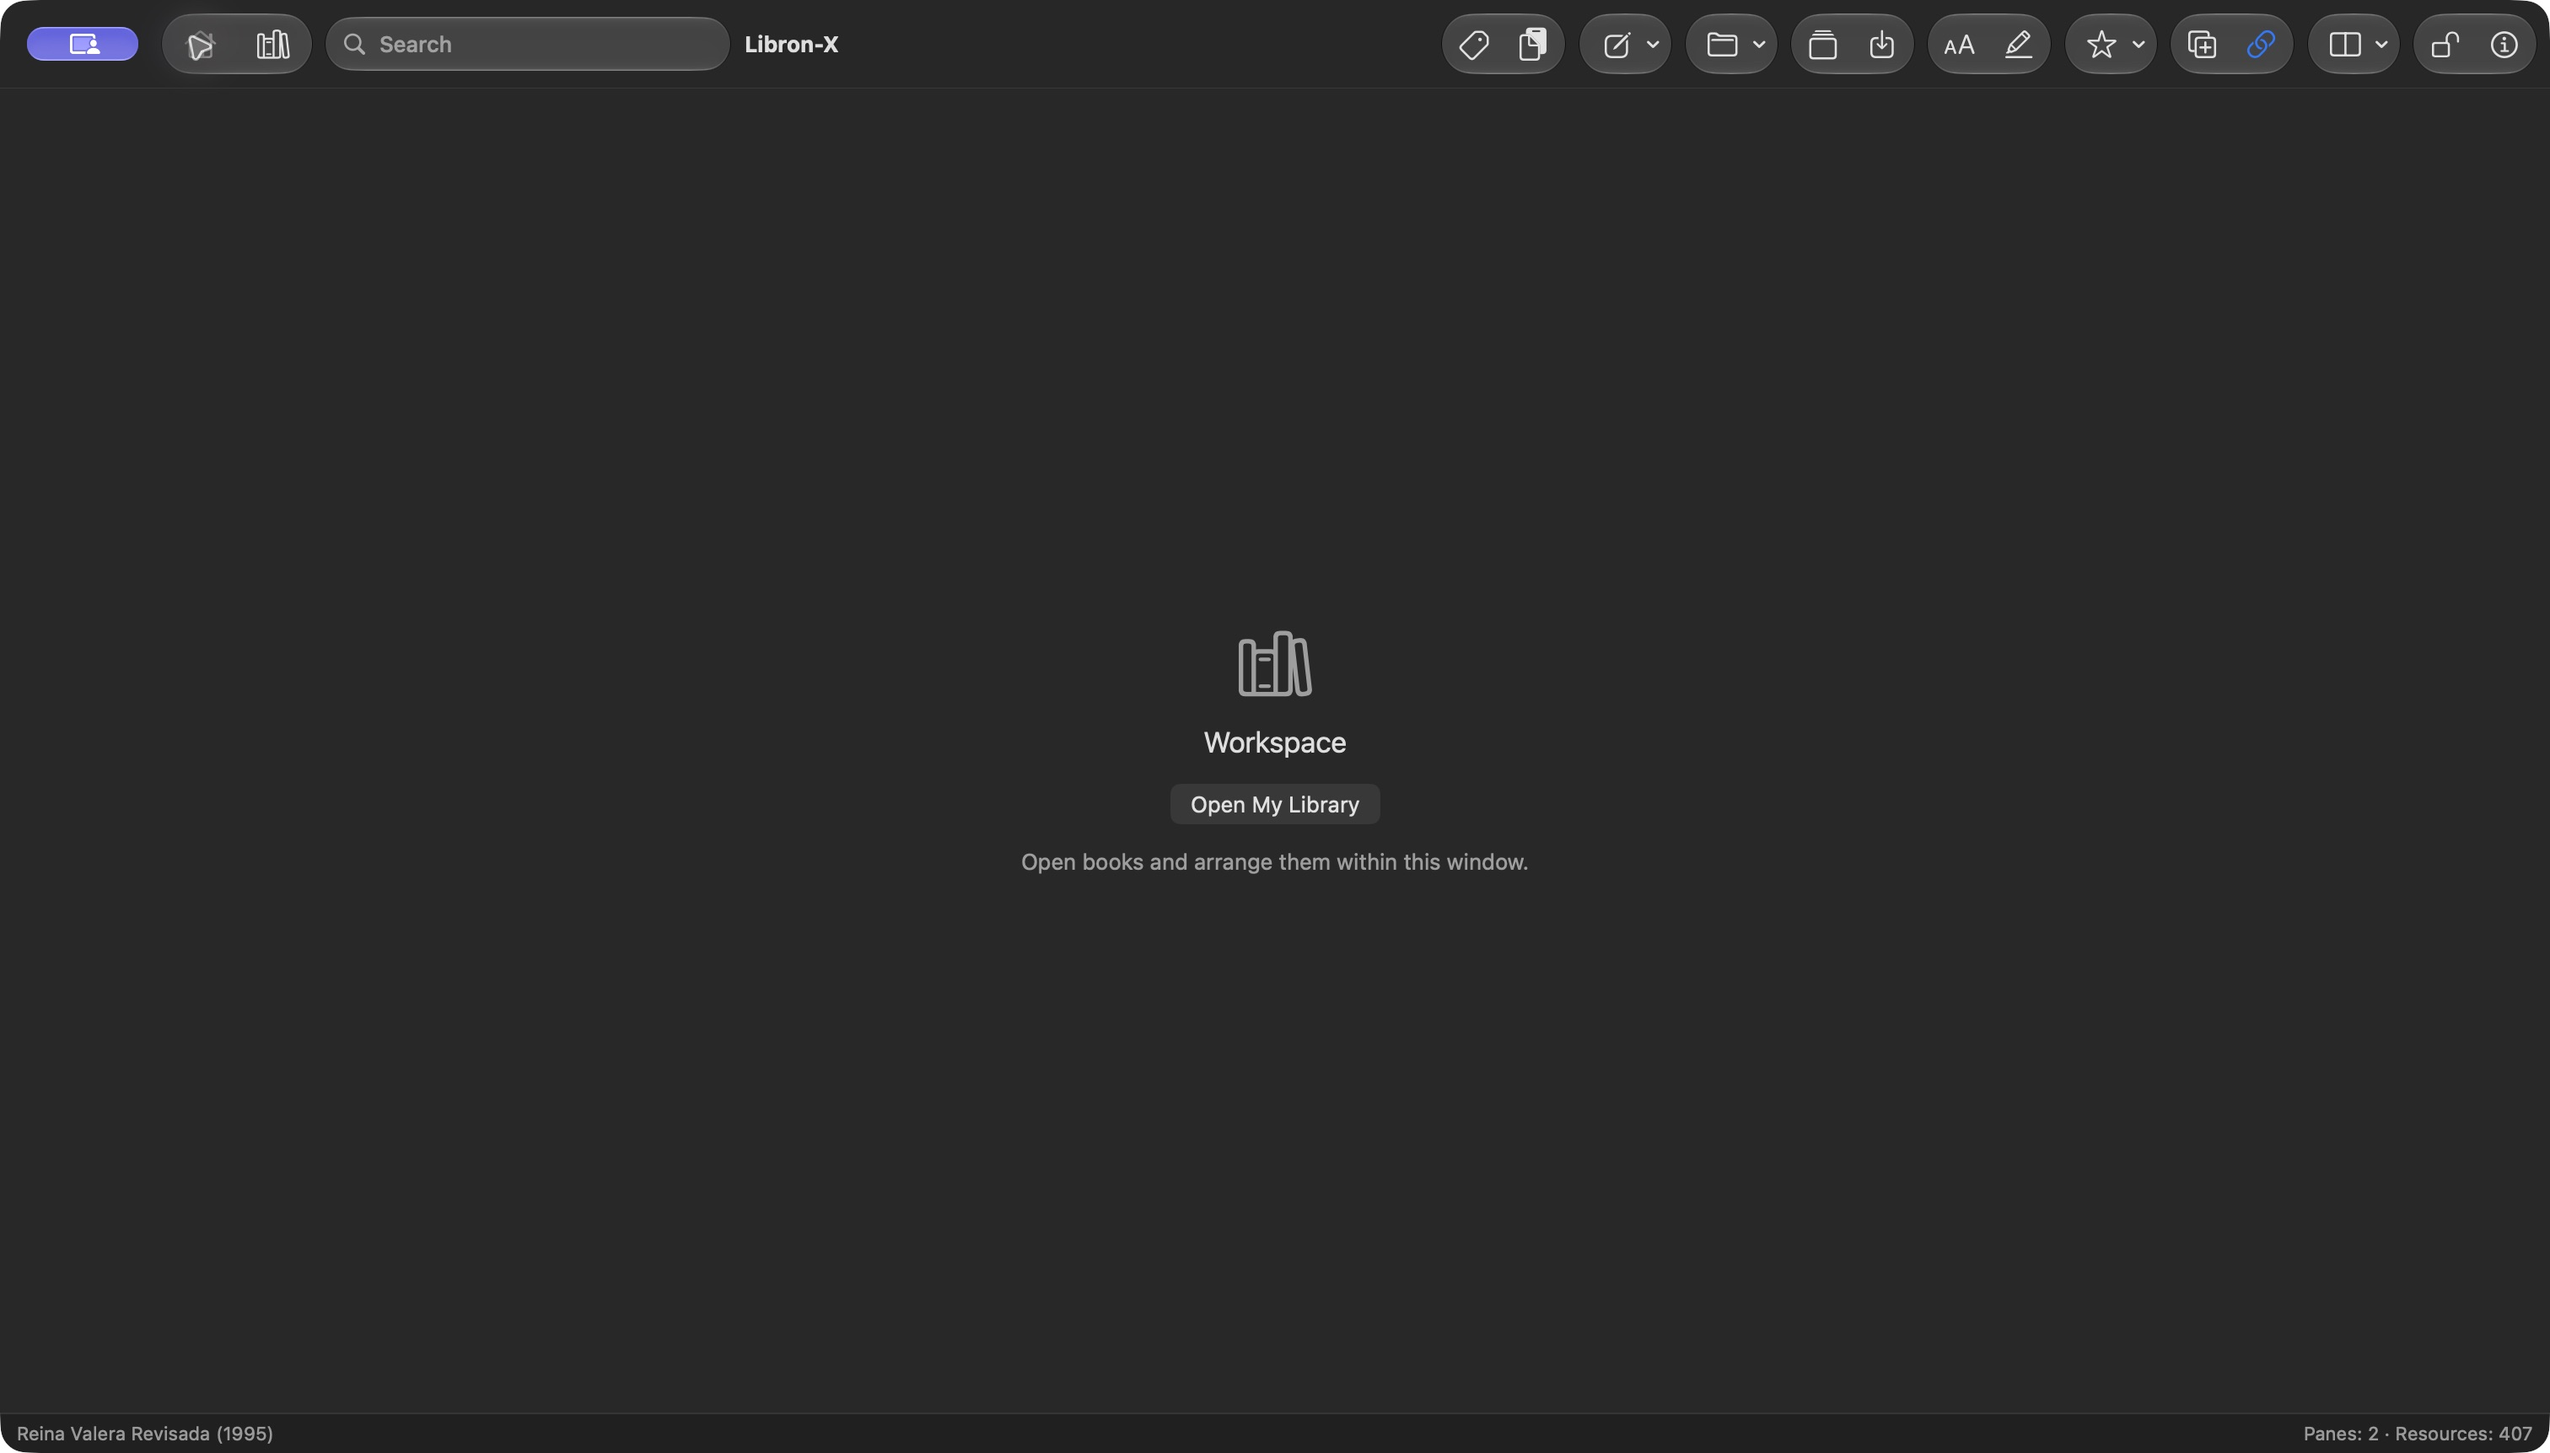
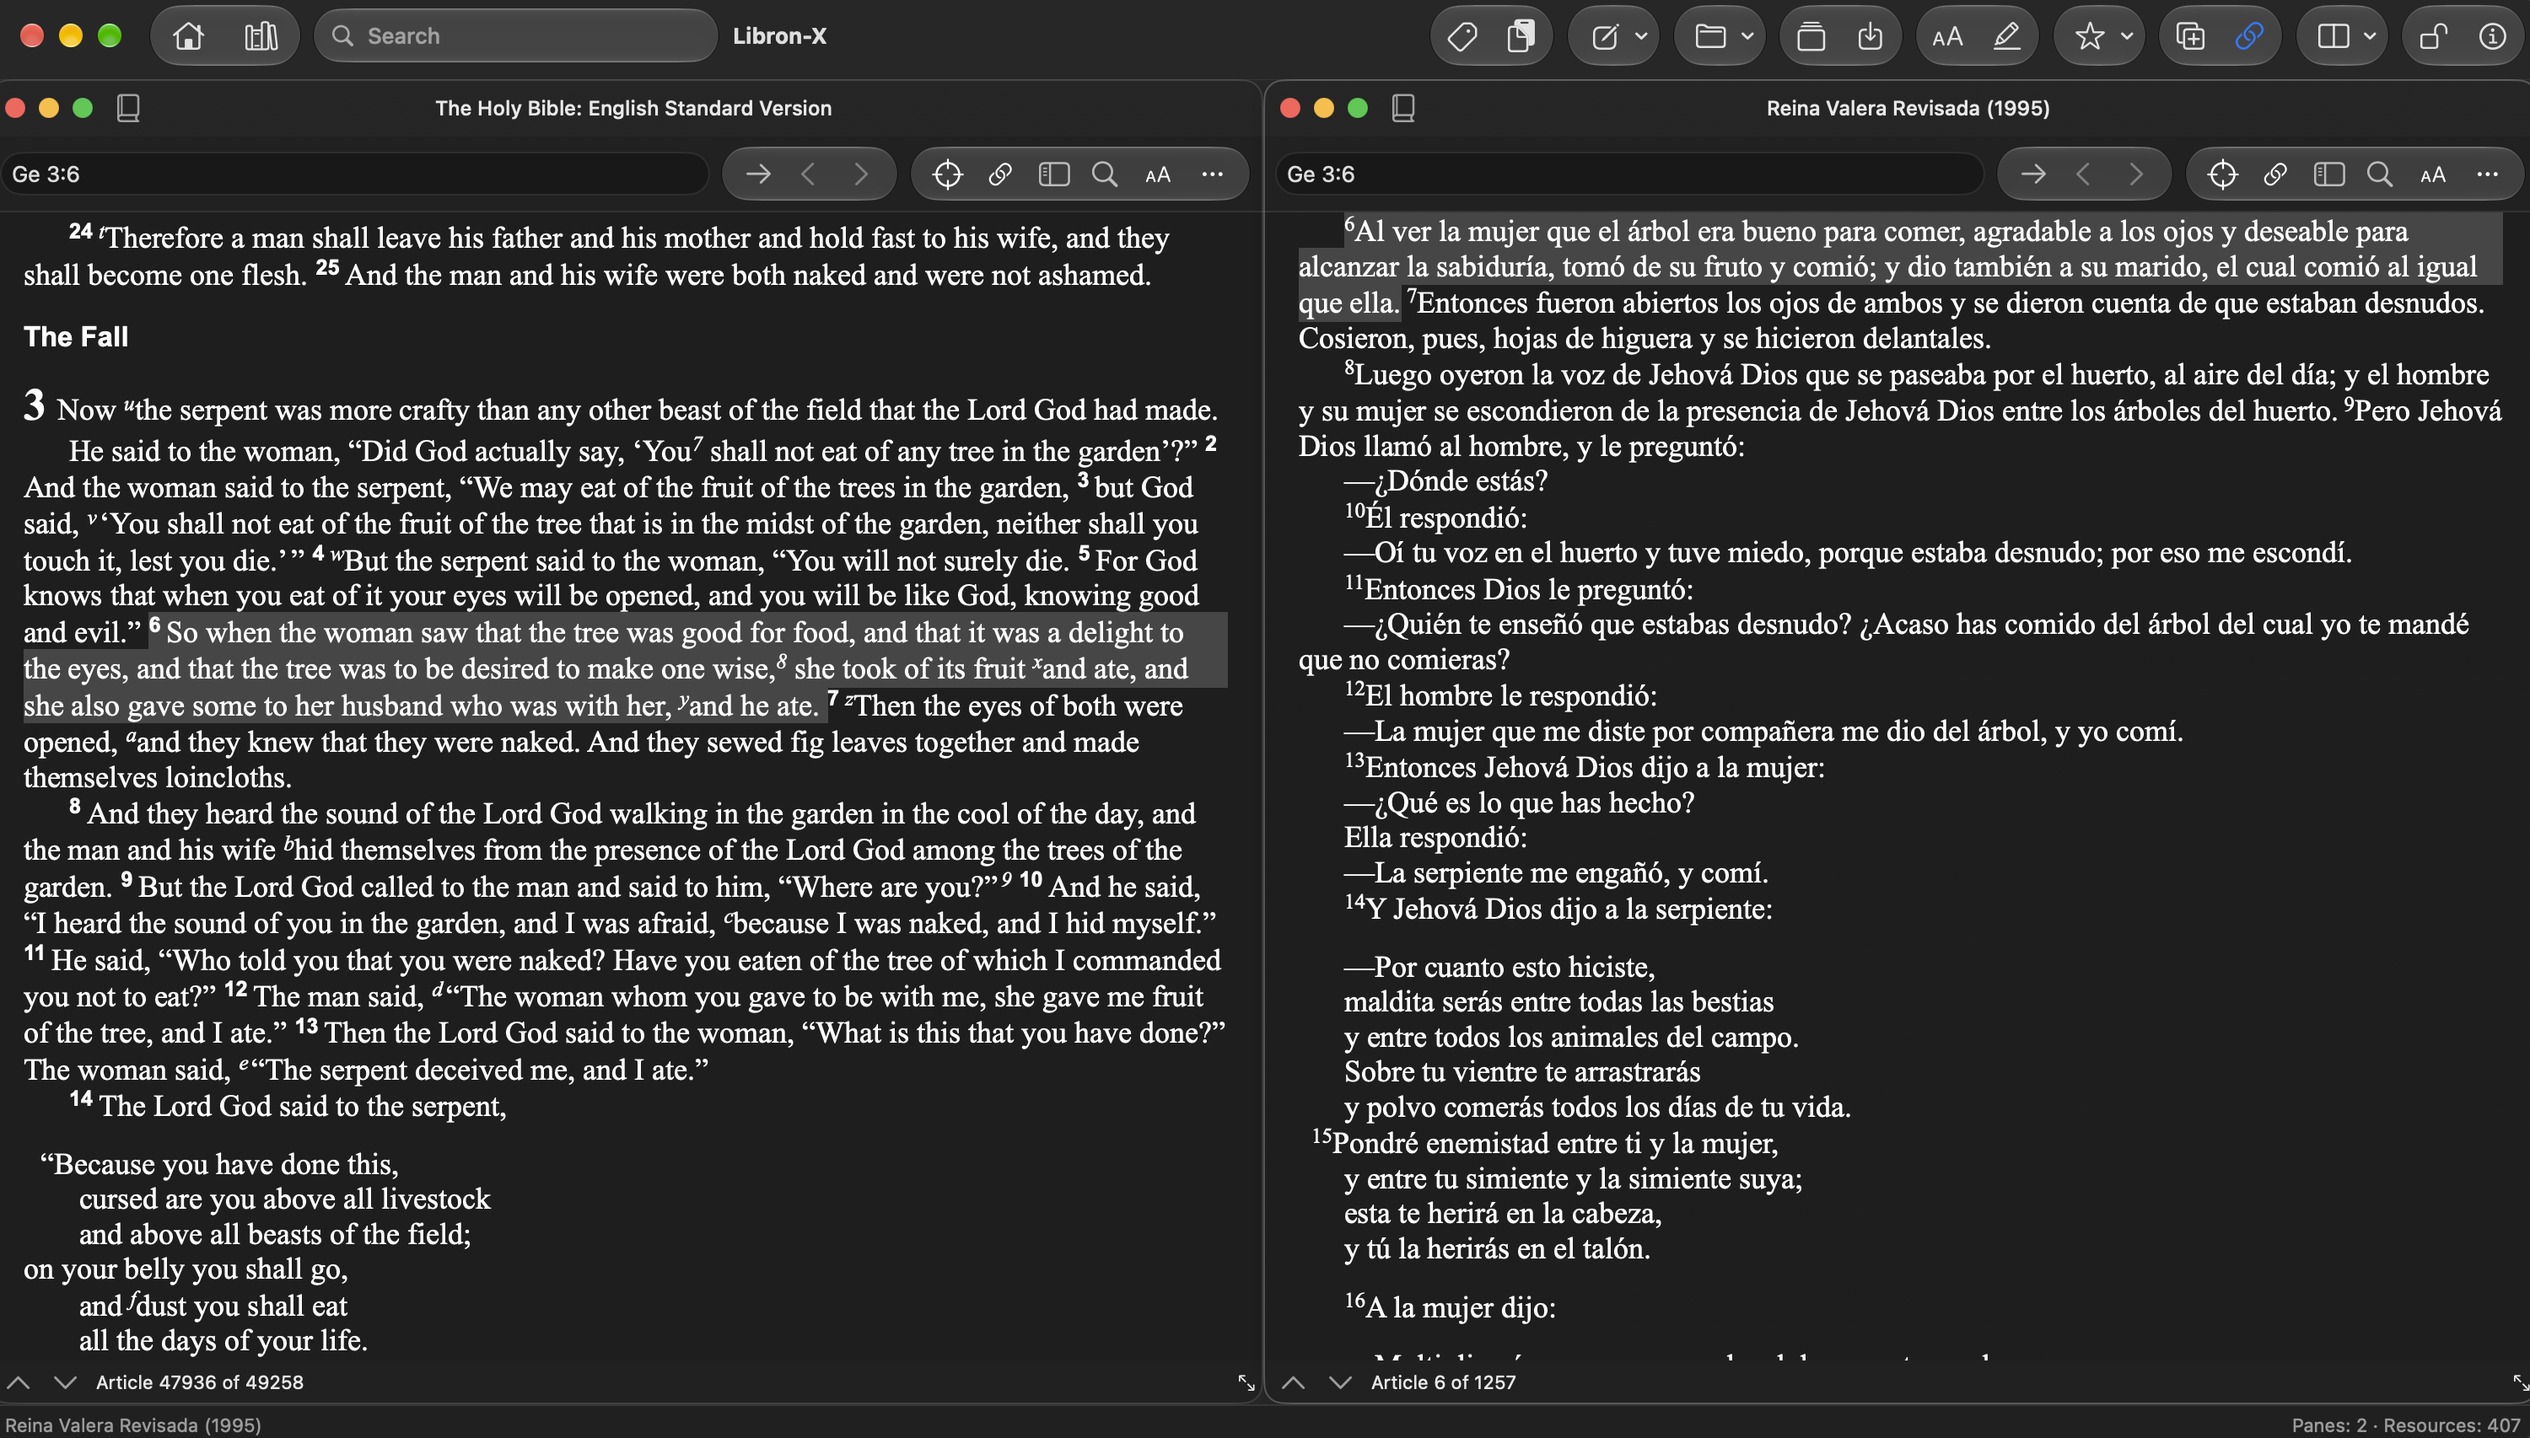
Update README

diff --git a/README.md b/README.md
@@ -1,4 +1,10 @@
-# Libron-X
+<p align="center">
+  <picture>
+    <source media="(prefers-color-scheme: dark)" srcset="BibliotecaLibre/Resources/Brand/vector/Libron-X-color-dark.svg">
+    <source media="(prefers-color-scheme: light)" srcset="BibliotecaLibre/Resources/Brand/vector/Libron-X-color.svg">
+    <img alt="Libron-X" src="BibliotecaLibre/Resources/Brand/vector/Libron-X-color.svg" width="240">
+  </picture>
+</p>
 
 A native macOS Bible study workspace for local Libronix libraries.
 
@@ -6,7 +12,7 @@ A native macOS Bible study workspace for local Libronix libraries.
 
 Read supported books, navigate Bible passages and arrange linked readers in one window. Libron-X is an independent Swift implementation. Compatibility with the original Libronix is incomplete.
 
-![Libron-X workspace with its English interface](docs/images/workspace-en.png)
+![Libron-X with English controls and two Bible readers side by side](docs/images/workspace-en.png)
 
 ## Try the beta
 

diff --git a/docs/verification-v0.1.md b/docs/verification-v0.1.md
@@ -10,7 +10,7 @@ Checked on October 16, 2026, on Apple Silicon with macOS 27.2 (26B5086k), Apple 
 | Bundle | Translation resource bundle, two approved icons and retained legal notices installed |
 | Signature | `codesign --verify --deep --strict` passed; ad-hoc signature, no notarization |
 | Native smoke check | Exact packaged app launched, restored two reading panes and opened Settings |
-| English presentation | Language switched in place; Home and General settings captured from the packaged app |
+| English presentation | Language switched in place; General settings captured from the packaged app; the main reader screenshot was supplied by the maintainer and included unchanged |
 | Preservation | Tests preserved; Source adapted for Swift 6.2 and SDK 26 compilation; existing expected test outcomes preserved; personal language and visible readings restored after checking |
 | Repository documentation | Relative file links checked within the public tree |
 
